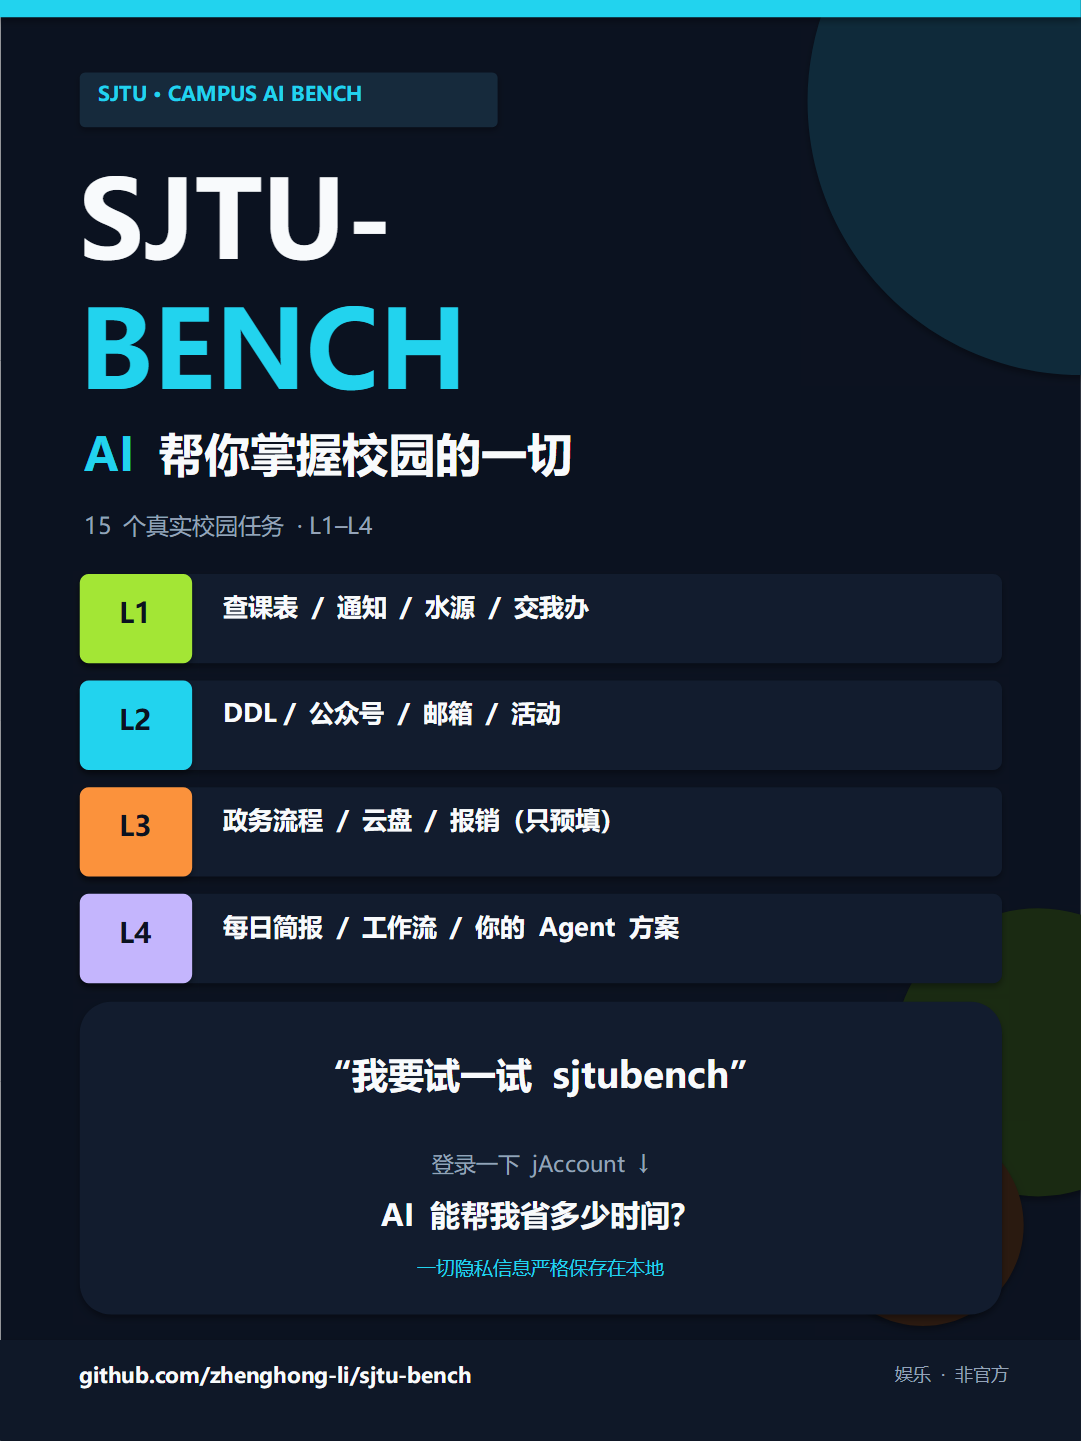
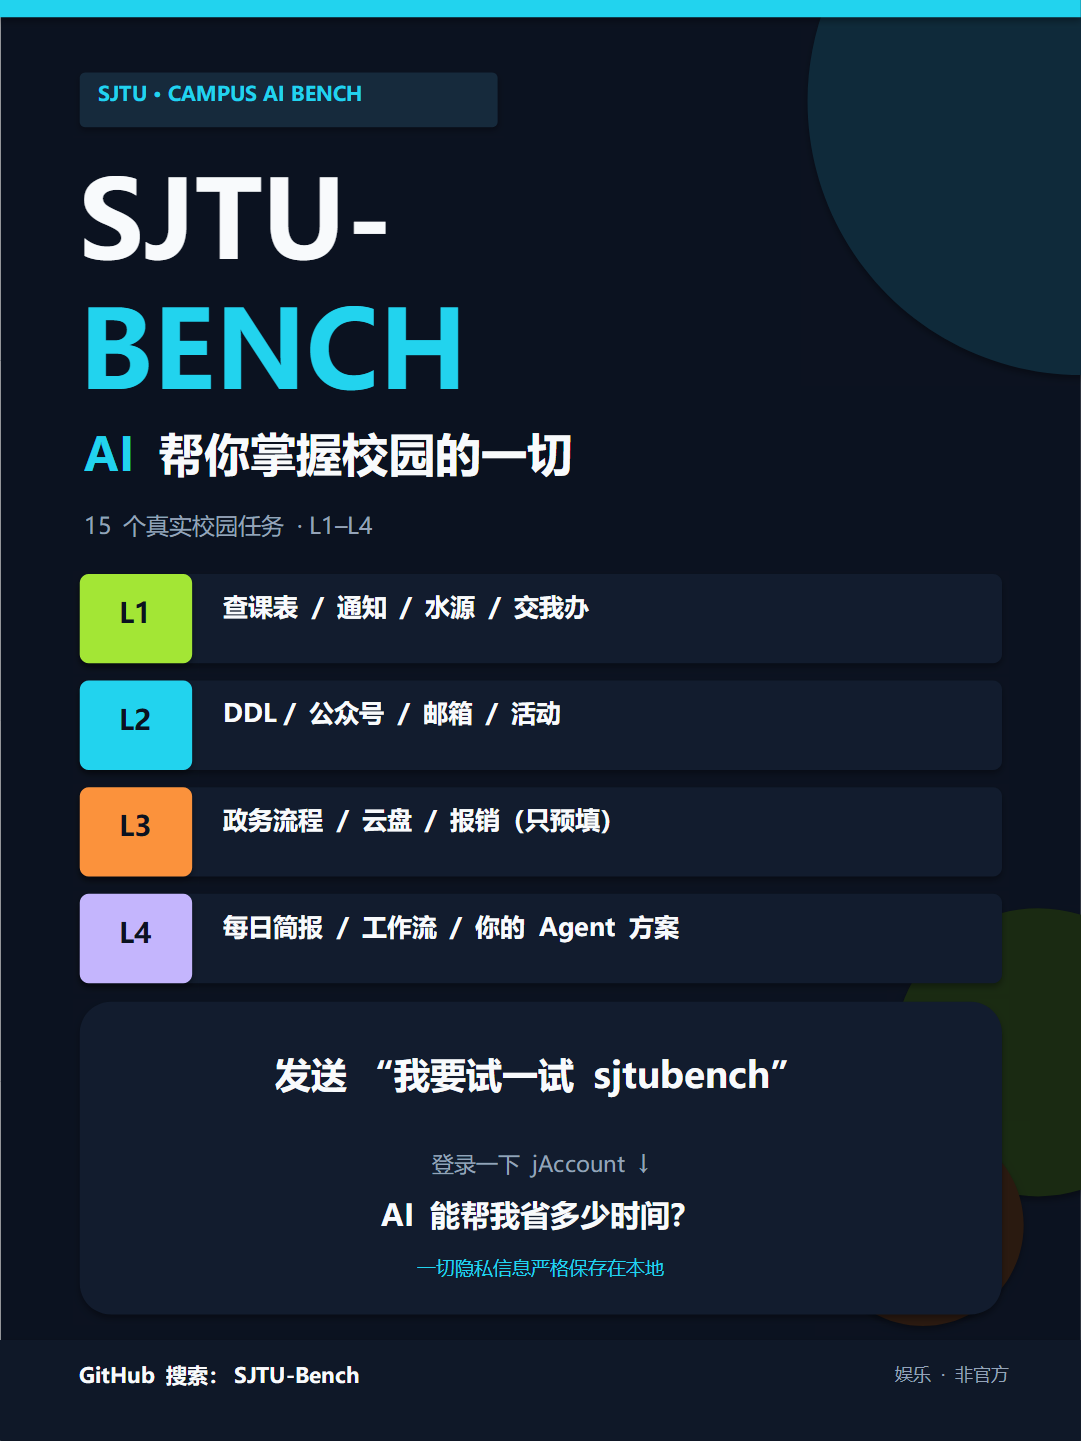
assets: re-export user-edited 16:9 poster; link-free 3:4 poster and Xiaohongshu copy

Changed region(s): [[0.2442, 0.7183, 0.7327, 0.7807], [0.0611, 0.9368, 0.4274, 0.9681]]

diff --git a/assets/promo-copy.md b/assets/promo-copy.md
@@ -28,7 +28,7 @@
 
 ---
 
-## 小红书版（可直接发）
+## 小红书版（可直接发，**不放链接**）
 
 **标题**：交大同学，来测测你的 AI 会不会办事 👀
 
@@ -48,7 +48,7 @@ L4 校园简报 + 你的 Agent 配置方案
 
 我试跑：14/15，79.7 分，净省约 90 分钟（一个公众号任务被反爬卡了，还在修）。
 
-仓库：https://github.com/zhenghong-li/sjtu-bench
+GitHub 搜：SJTU-Bench（小红书不能放链接，麻烦手动搜一下）
 有 agent 的同学来把榜一顶掉；没有的也可以来提新任务/看热闹。
 
 \#上海交通大学 #SJTU #AI #Agent #效率工具 #校园生活
@@ -57,7 +57,7 @@ L4 校园简报 + 你的 Agent 配置方案
 
 ## 给 AI 的"改写/发帖"prompt
 
-> 你是上海交通大学的一名学生。请帮我把下面这个项目改写成一条适合发在「水源社区」的帖子（或小红书笔记），要求：开头 1 句就抓住人，正文 150–250 字，只讲 3 个重点（15 个真实校园任务、登录一次 jAccount、匿名排行榜/隐私不出本机），语气真诚、不夸大、不标题党，结尾给出 GitHub 链接和触发词"我要试一试 sjtubench"。项目信息：SJTU-Bench，15 个任务 L1–L4，LLM 评分，可选匿名上榜，仓库 https://github.com/zhenghong-li/sjtu-bench 。
+> 你是上海交通大学的一名学生。请帮我把下面这个项目改写成一条适合发在「水源社区」的帖子（或小红书笔记），要求：开头 1 句就抓住人，正文 150–250 字，只讲 3 个重点（15 个真实校园任务、登录一次 jAccount、匿名排行榜/隐私不出本机），语气真诚、不夸大、不标题党，结尾给出触发词"我要试一试 sjtubench"。**水源版可以放 GitHub 链接；小红书版不要放链接，改成「GitHub 搜：SJTU-Bench」。** 项目信息：SJTU-Bench，15 个任务 L1–L4，LLM 评分，可选匿名上榜，仓库 https://github.com/zhenghong-li/sjtu-bench 。
 
 ---
 
